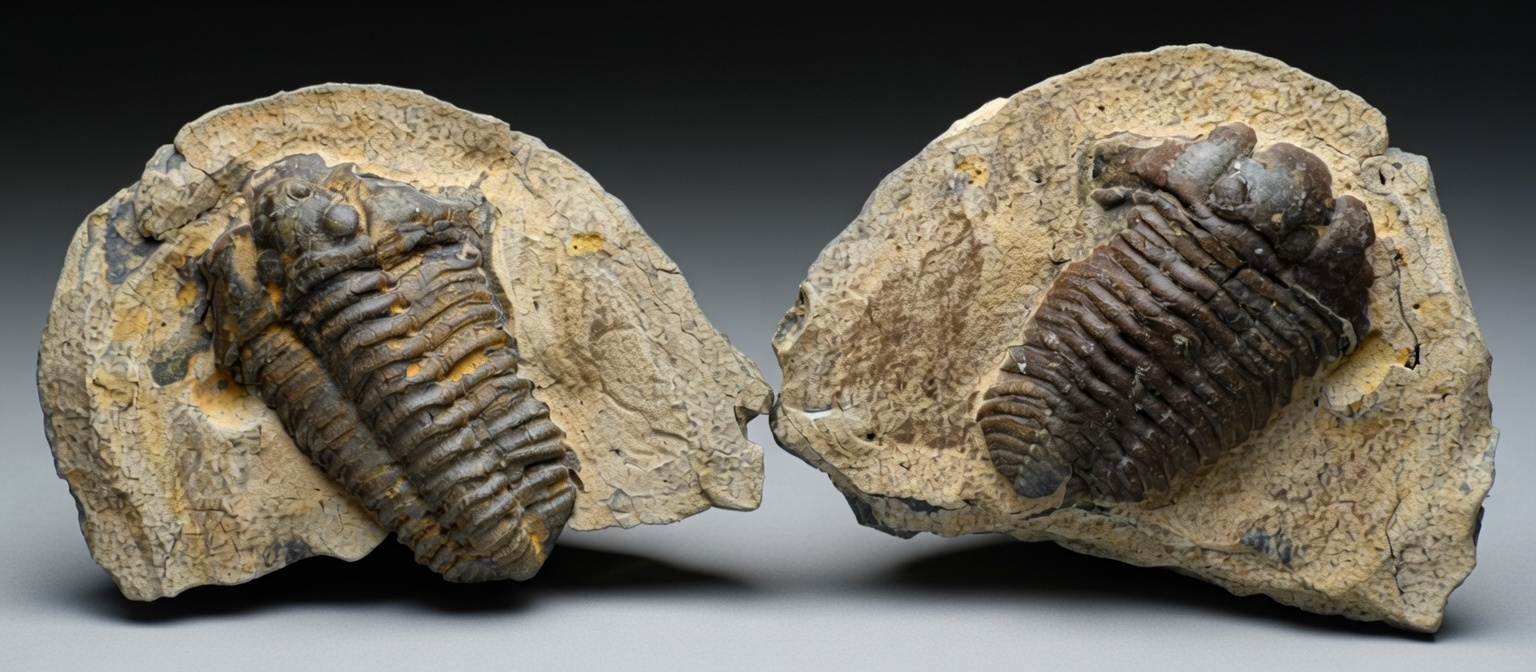
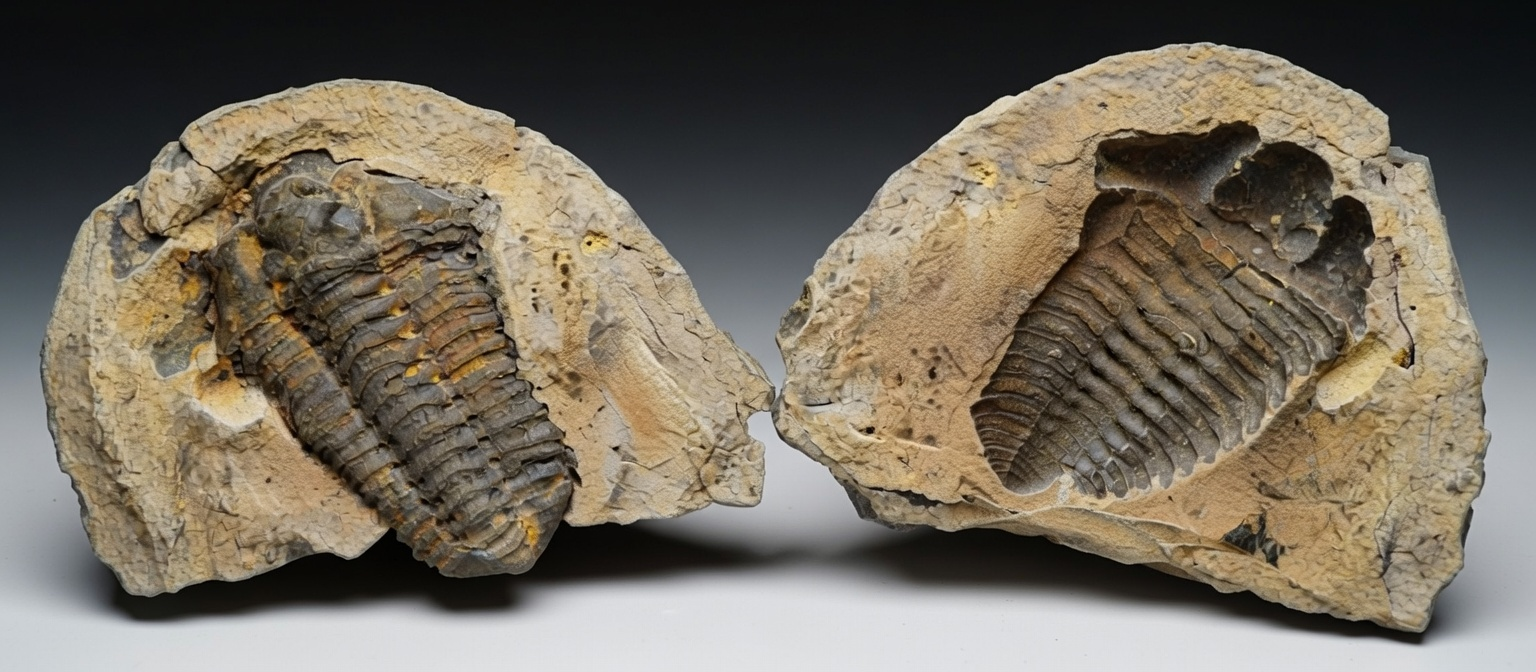
Mejora del diseño del modal: distribución horizontal en escritorio y alineación de detalles en la misma fila

diff --git a/styles-v2.css b/styles-v2.css
@@ -585,11 +585,13 @@ body {
 .modal-content {
     position: relative;
     width: 95%;
-    max-width: 1200px;
+    max-width: 1400px;
+    /* Slightly wider for side-by-side */
     height: 90vh;
     margin: auto;
     display: flex;
-    flex-direction: column;
+    flex-direction: row;
+    /* Horizontal on desktop */
     background: var(--bg-white);
     border-radius: 16px;
     overflow: hidden;
@@ -626,8 +628,10 @@ body {
 
 .image-container {
     position: relative;
-    width: 100%;
-    height: 65%;
+    width: 65%;
+    /* 65% width on desktop */
+    height: 100%;
+    /* Full height of modal-content */
     display: flex;
     align-items: center;
     justify-content: center;
@@ -695,43 +699,49 @@ body {
 
 .modal-info {
     flex: 1;
-    width: 100%;
-    max-width: 100%;
-    height: auto;
+    width: 35%;
+    /* 35% width on desktop */
+    height: 100%;
+    /* Full height to allow scrolling info */
     overflow-y: auto;
     background: var(--bg-white);
-    padding: var(--spacing-lg) var(--spacing-xl);
+    padding: var(--spacing-xl) var(--spacing-lg);
     z-index: 5;
     display: flex;
     flex-direction: column;
-    align-items: center;
+    align-items: flex-start;
+    /* Left aligned for vertical reading */
     order: 2;
     /* Explicitly second */
+    border-left: 1px solid var(--border-light);
 }
 
 .modal-title {
     font-family: var(--font-serif);
-    font-size: 2.2rem;
+    font-size: 2rem;
     font-weight: 700;
     color: var(--primary-dark);
-    margin-bottom: var(--spacing-md);
-    text-align: center;
-    letter-spacing: -0.02em;
+    margin-bottom: var(--spacing-lg);
+    text-align: left;
+    letter-spacing: -0.01em;
+    line-height: 1.2;
 }
 
 .modal-details {
     display: grid;
-    grid-template-columns: repeat(auto-fit, minmax(180px, 1fr));
-    gap: var(--spacing-md);
+    grid-template-columns: 1fr;
+    /* Single column for side panel */
+    gap: var(--spacing-sm);
     width: 100%;
     margin-bottom: var(--spacing-lg);
 }
 
 .detail-item {
     display: flex;
-    flex-direction: column;
-    align-items: flex-start;
-    gap: 4px;
+    flex-direction: row;
+    align-items: center;
+    justify-content: flex-start;
+    gap: var(--spacing-sm);
     padding: var(--spacing-xs) var(--spacing-sm);
     background: var(--bg-cream);
     border-radius: 8px;
@@ -742,7 +752,8 @@ body {
     font-size: 0.85rem;
     font-weight: 600;
     color: var(--text-dark);
-    min-width: 100px;
+    min-width: 110px;
+    flex-shrink: 0;
 }
 
 .detail-badge {
@@ -1008,15 +1019,22 @@ body {
         border-radius: 0;
         max-width: 100%;
         max-height: 100%;
+        flex-direction: column;
+        /* Vertical stack on mobile */
     }
 
     .image-container {
-        height: 50vh;
+        width: 100% !important;
+        height: 50vh !important;
     }
 
     .modal-info {
+        width: 100% !important;
         padding: var(--spacing-lg) var(--spacing-md);
         background: var(--bg-white);
+        border-left: none;
+        align-items: center;
+        /* Center aligned for mobile stack */
     }
 
     .image-navigation {
